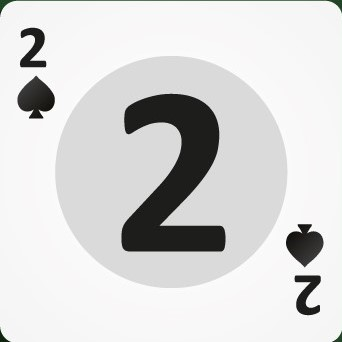
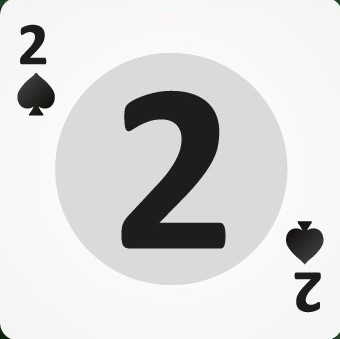
more card files

diff --git a/client/src/components/CardDetails.vue b/client/src/components/CardDetails.vue
@@ -41,21 +41,27 @@
                     <div class="modal-body row">
                       <div class="col-9">
                         <!-- card code -->
-                        <div class="card mb-4" style="width: 20rem; height: 28rem;" v-if="!flipped">
+                        <div class="card" style="width: 20rem; height: 28rem;" v-if="!flipped">
                           <div class="card-body d-inline-flex justify-content-between">
                             <h5 class="card-title text-wrap">{{ activeCard.name }}</h5>
                             <h5 class="card-title text-wrap">{{ activeCard.category }}</h5>
                           </div>
-                          <div class="card-body">
+                          <div class="card-body image-centering">
                             <!-- card face image (top half of card) -->
-                            <img :src="activeCard.imgFace" placeholder />
+                            <img
+                              :src="activeCard.imgFace"
+                              id="card-face-img"
+                              style="max-width: 100%; max-height:100%"
+                              placeholder
+                            />
                           </div>
                           <div class="card-body">
                             <p class="card-text text-left text-wrap">{{ activeCard.content }}</p>
                           </div>
                         </div>
                         <div
-                          class="card mb-4"
+                          class="card"
+                          id="card-back-img"
                           style="width: 20rem; height: 28rem;"
                           v-else
                           :style="'background-image: url('+activeCard.imgBack+'); background-size: cover'"
@@ -189,5 +195,14 @@ export default {
 <style scoped>
 .full-width-modal {
   max-width: 1000px;
+}
+.image-centering {
+  align-self: center;
+}
+#card-face-img {
+  border-radius: 1em;
+}
+#card-back-img {
+  border: 1em;
 }
 </style>

diff --git a/client/src/components/NewCard.vue b/client/src/components/NewCard.vue
@@ -50,6 +50,7 @@
                   <!-- card face image (top half of card) -->
                   <img
                     :src="displayedNewCard.imgFace"
+                    id="card-face-img"
                     placeholder
                     style="max-width: 100%; max-height:100
                   %"
@@ -193,5 +194,8 @@ export default {
 }
 .image-centering {
   align-self: center;
+}
+#card-face-img {
+  border-radius: 1em;
 }
 </style>
